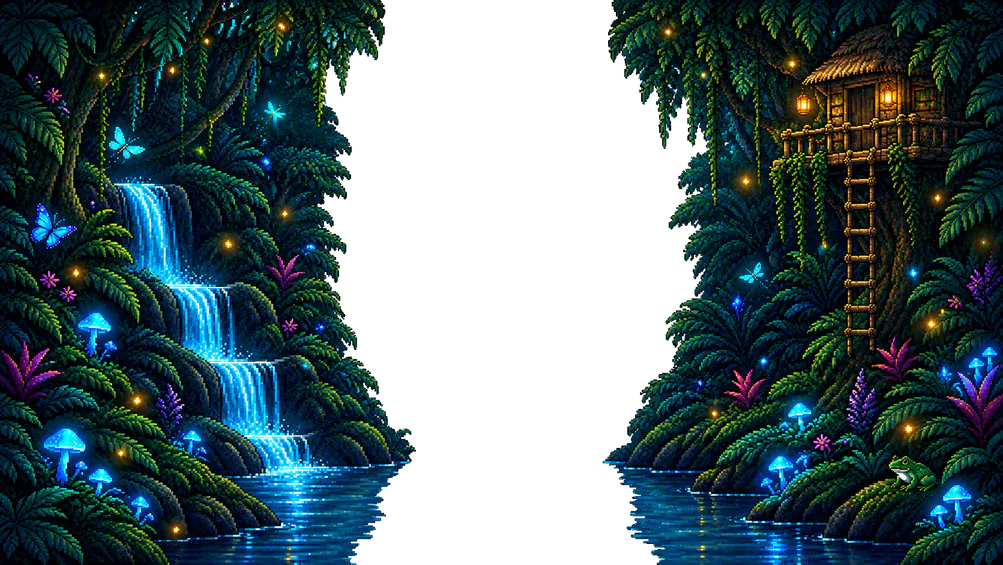
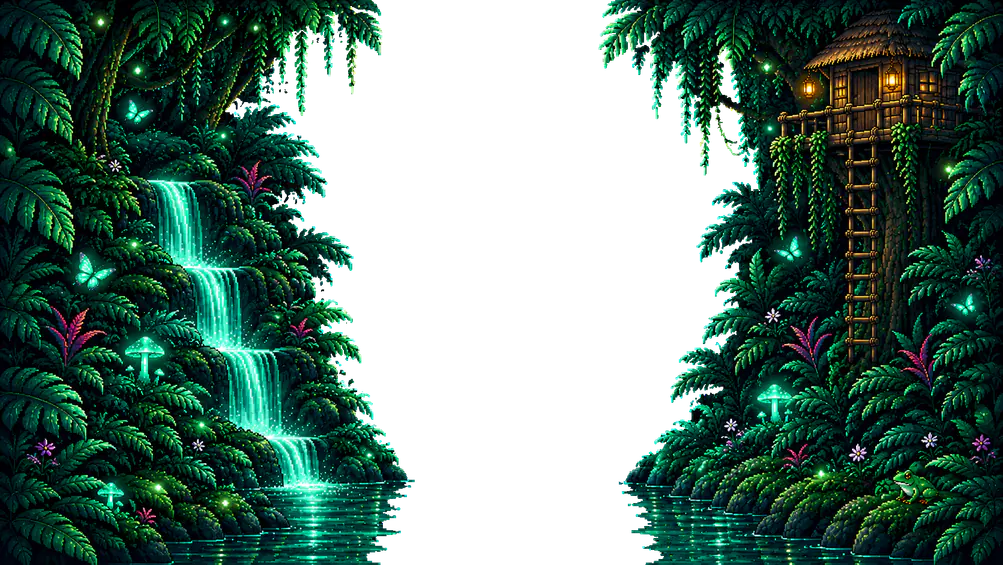
feat(home): the new night jungle behind the column
A new dark-mode frame: glowing waterfall, mushrooms and fireflies, the
treehouse and the frog. It came with its empty middle drawn as a
near-black checkerboard, so home-scene.mjs now reads the squares'
shades off the frame's middle column and keys against those. The
squares are as dark as the art's own shadows, so a pocket of them shut
in by foliage is only keyed out if it looks like squares — both of
their shades, in solid blocks — which leaves the gaps in the thatch and
between the railing's planks alone. A theme whose source frame is not
in assets/ is now left as it is rather than failing the run.

diff --git a/client/app.css b/client/app.css
@@ -290,8 +290,8 @@ body.home .lg-mark {
   body.home {
     --w: 177.58vh;
     --split: 88.74vh;
-    --reach-l: 65.67vh;
-    --reach-r: 116.58vh;
+    --reach-l: 63.97vh;
+    --reach-r: 116.05vh;
   }
 
   body.home::before,
